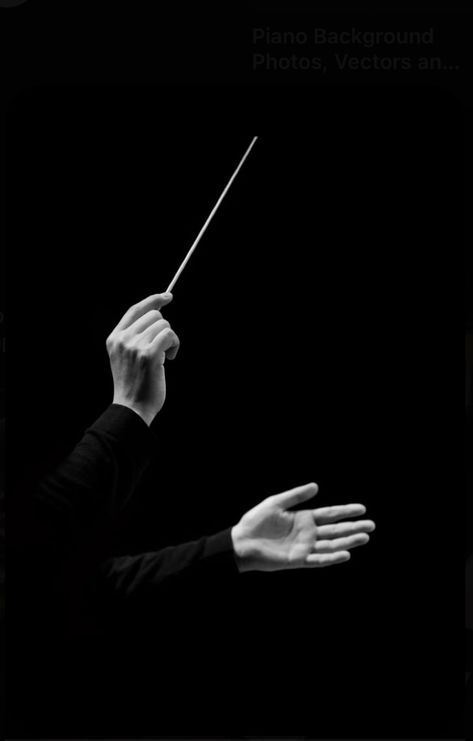
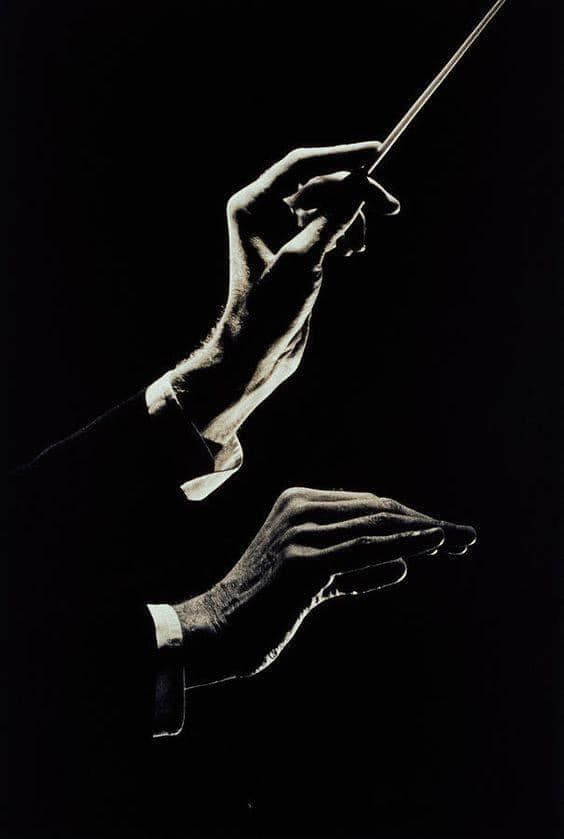
images

diff --git a/pages/style.css b/pages/style.css
@@ -21,7 +21,7 @@ body {
 }
 
 .bottom {
-    background-image: url('../img/cartoon.jpg'); 
+    background-image: url("../img/dancers.jpg"); 
     background-size: cover; 
     background-repeat: no-repeat;
     background-position: center; 
@@ -32,7 +32,7 @@ body {
 }
 
 .middle {
-    background-image: url('../img/musicsheet.jpg');
+    background-image: url("../img/dots.jpg");
     background-size: cover; 
     background-repeat: no-repeat;
     background-position: top; 
@@ -46,7 +46,7 @@ body {
 }
 
 .hands {
-    background-image: url("../img/hands.jpg");
+    background-image: url("../img/music\ sheet\ cartoon.jpg");
     background-size: cover;
     background-repeat: no-repeat;
     background-position: bottom;
